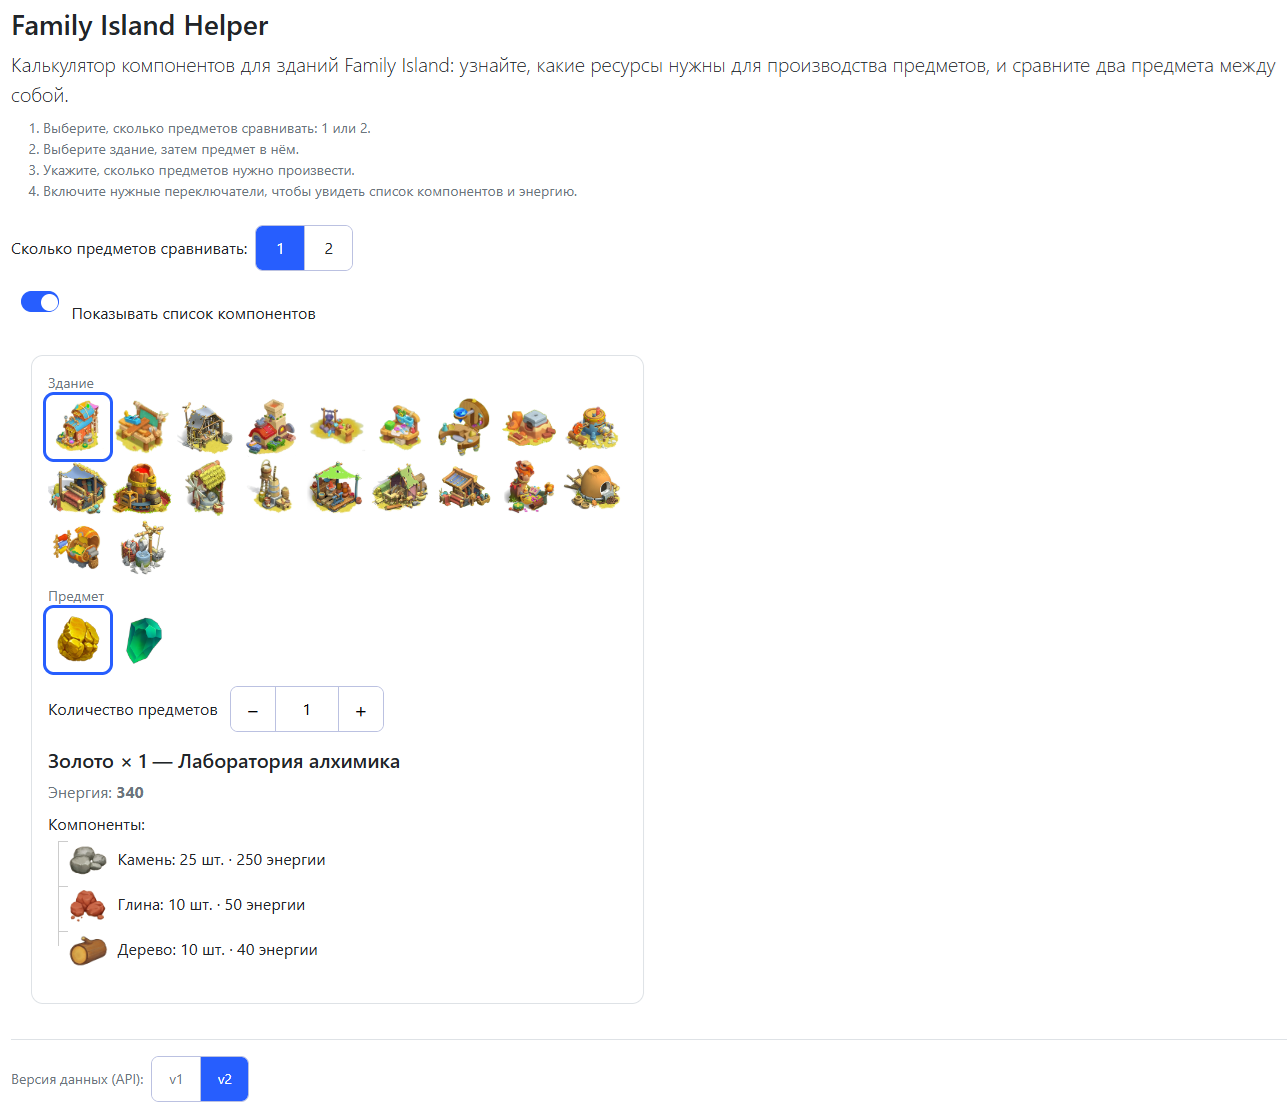
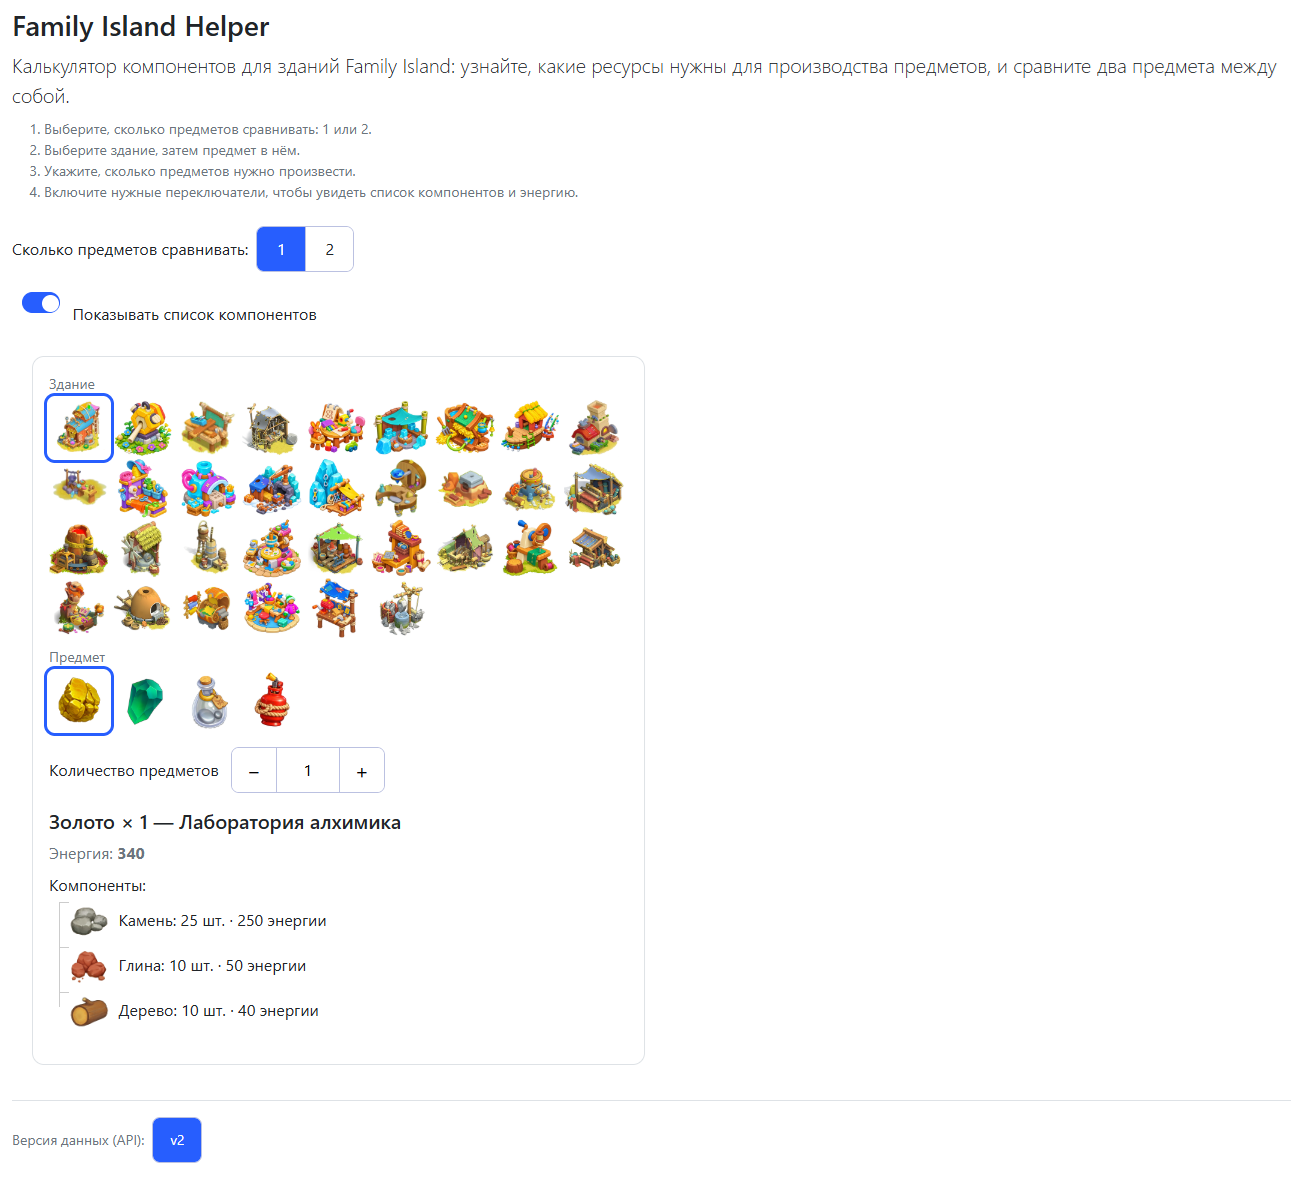
web: Update API to 1.4.0
API v.1 was removed

Changed region(s): [[0.0, 0.0, 0.9946, 0.8859], [0.0, 0.9164, 0.2176, 1.0]]

diff --git a/FamilyIslandHelper.Web/Controllers/ResourcesController.cs b/FamilyIslandHelper.Web/Controllers/ResourcesController.cs
@@ -12,12 +12,10 @@ namespace FamilyIslandHelper.Web.Controllers
 
 		private static readonly Dictionary<ApiVersion, BuildingHelper> buildingHelperDictionary = new()
 		{
-			[ApiVersion.v1] = new BuildingHelper(ApiVersion.v1),
 			[ApiVersion.v2] = new BuildingHelper(ApiVersion.v2)
 		};
 		private static readonly Dictionary<ApiVersion, ItemHelper> itemHelperDictionary = new()
 		{
-			[ApiVersion.v1] = new ItemHelper(ApiVersion.v1),
 			[ApiVersion.v2] = new ItemHelper(ApiVersion.v2)
 		};
 
